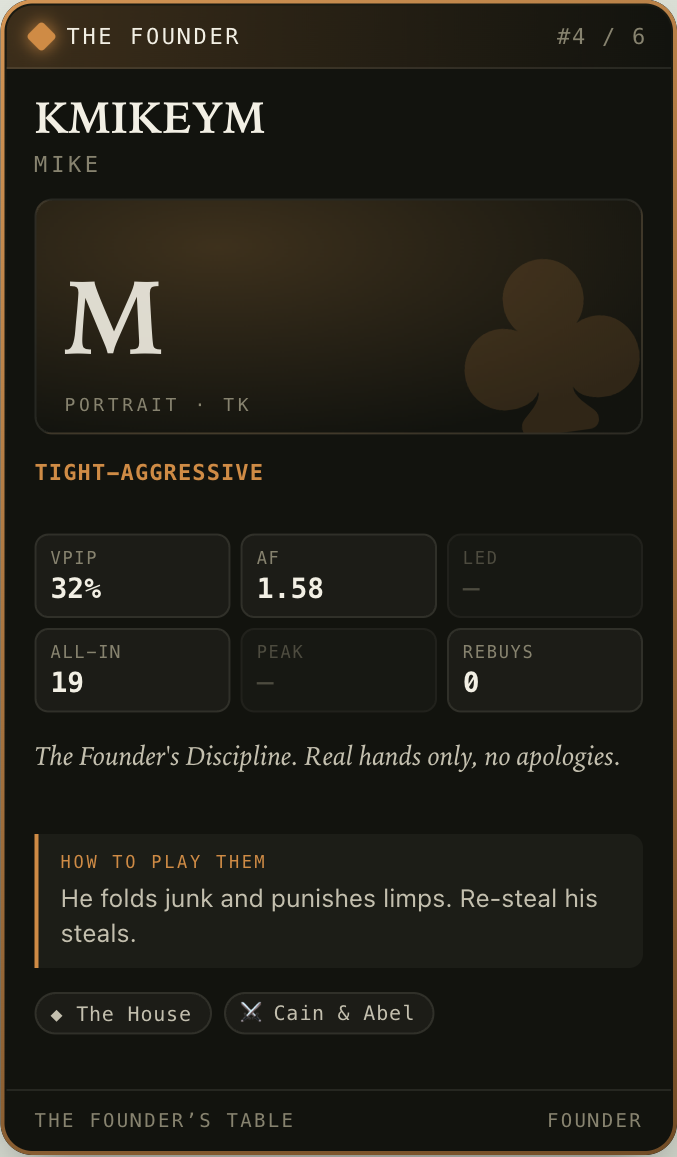
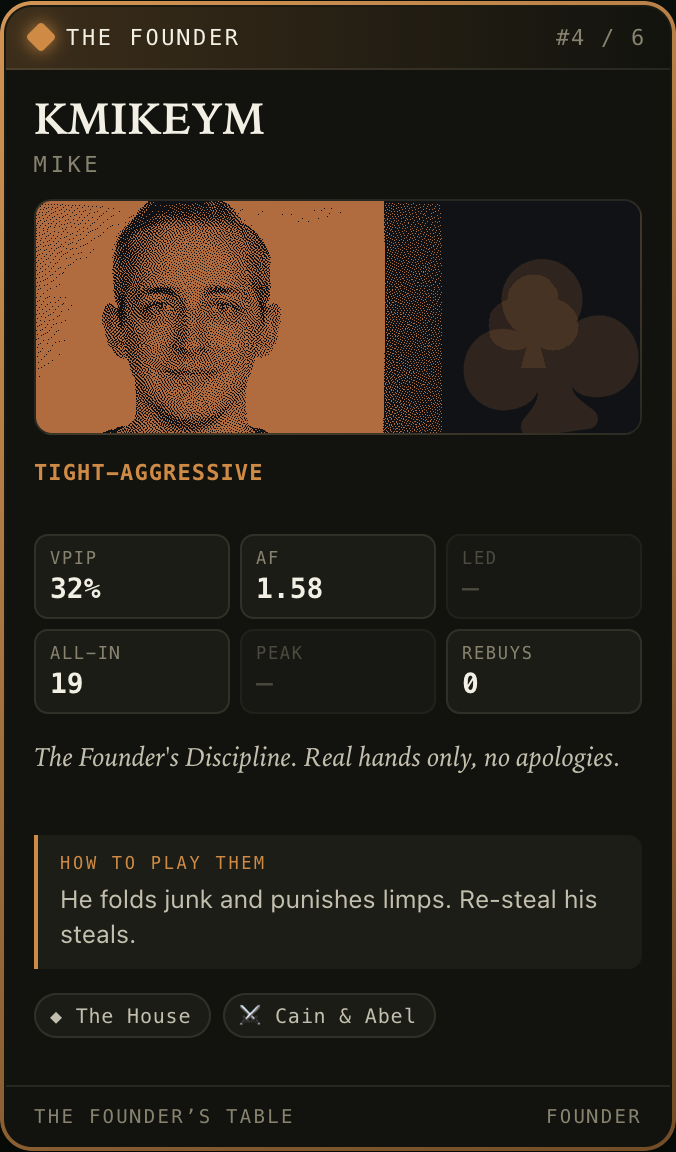
kmikeym card art: approved self portrait on Sets 1 and 2, standing for all sets (#17) (#29)
Both card-4 (Founder's Table) and card-5 (Wire to Wire) re-rendered with
Mike's approved (self) panel pulled from R2, via throwaway copies of the
munger sheets using the same patch stage-candidates.sh applies; shipping
sheets untouched, no other player's card re-rendered. Copper duotone
matches his Uncommon rarity in both sets.

Consent record: approved (self) 2026-08-29 on his own consent page for
the 2026-08 ask; extension to Set 1 and all future sets is Mike's
explicit direction, 2026-09-01. Runbook gains a "Standing portraits"
section; the panel's durable copy lands in munger ccg/portraits-approved/.

Claude-Session: https://claude.ai/code/session_017fAYKRQyfGvPDtRfL9iCao

diff --git a/docs/publishing.md b/docs/publishing.md
@@ -175,6 +175,18 @@ Rehearsal: add `--local` to any command to run against `wrangler pages dev`
 state instead of production. Nothing in this flow touches git: candidate
 images live only in R2, answers live only in D1.
 
+### Standing portraits
+
+kmikeym's card art is his approved self-upload panel, permanently: he
+approved it on his own consent page (`approved (self)`, 2026-08-29, copper
+duotone) and directed on 2026-09-01 that it be used on Set 1, Set 2, and
+every future set. The panel lives in munger at `ccg/portraits-approved/`
+(and stays in R2; prune spares approved self panels on its own). At render
+time, attach it to his card the same way a staged crop is attached; his
+rarity metal is copper in both existing sets, so the tint already matches.
+No new ask is ever staged for him. If his rarity metal changes in a future
+set, re-tint before rendering rather than shipping a mismatched panel.
+
 ### Turning uploads off
 
 Self-upload is a standing feature, not a per-set toggle, but Mike can shut it
